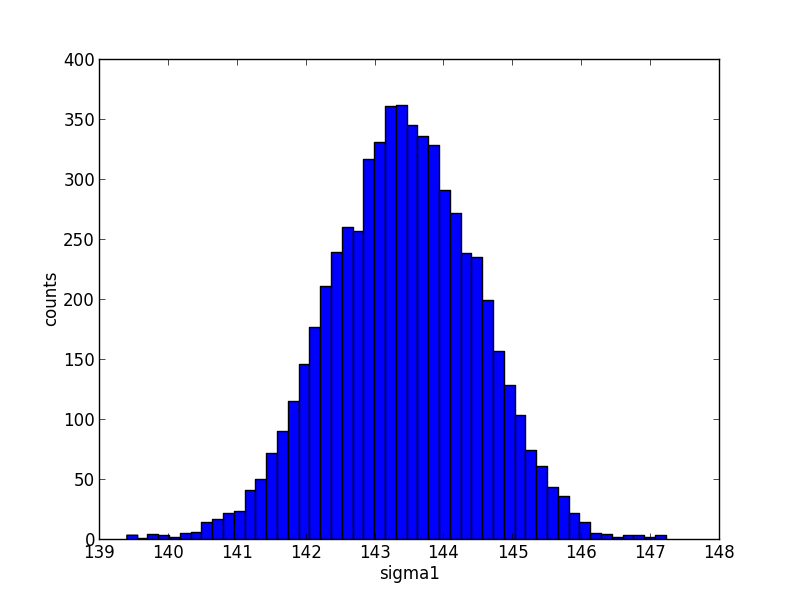
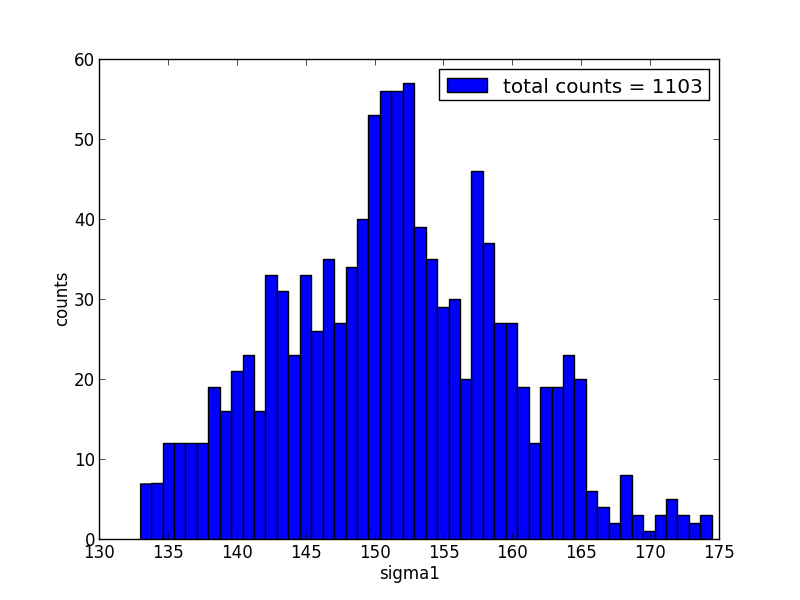
update MCMC plot code

diff --git a/python/MCMC_full_plot.py b/python/MCMC_full_plot.py
@@ -1,0 +1,34 @@
+import numpy as np
+import matplotlib.pyplot as plt
+import matplotlib.patches as mpat
+
+t=np.loadtxt('SIE2_free_mcmc.dat')
+
+
+chi2=t[:,0]
+sig1,sig2=t[:,1],t[:,6]
+x1,x2=t[:,2],t[:,7]
+y1,y2=t[:,3],t[:,8]
+e1,e2=t[:,4],t[:,9]
+pa1,pa2=t[:,5],t[:,10]
+
+#pick a parameter to plot
+para1=sig1
+n_para='sigma1'
+tot='total counts = %d' %(len(chi2))
+
+plt.figure(1)
+n, bin, patches = plt.hist(para1,50,label=tot)
+plt.xlabel(n_para)
+plt.ylabel('counts')
+
+print len(chi2)
+
+#plt.figure(2)
+#plt.scatter(para1,chi2)
+#plt.xlabel(n_para)
+#plt.ylabel('chi^2')
+plt.legend()
+plt.show()
+
+
